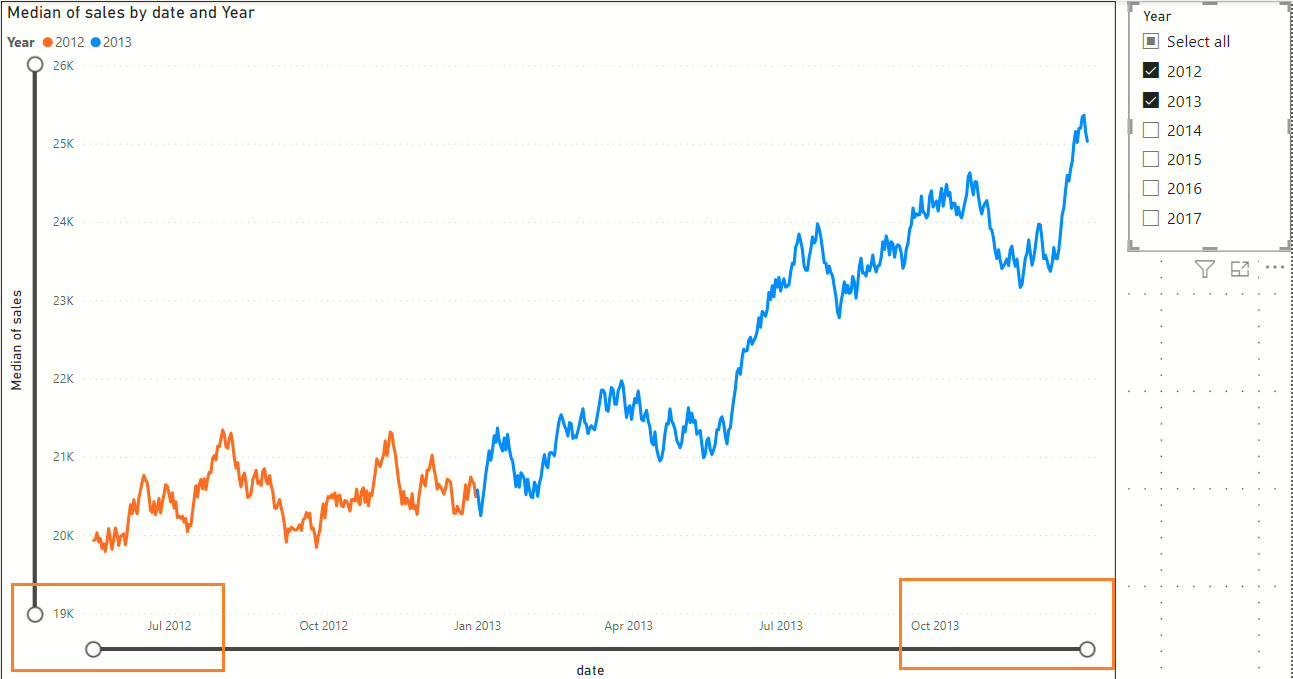
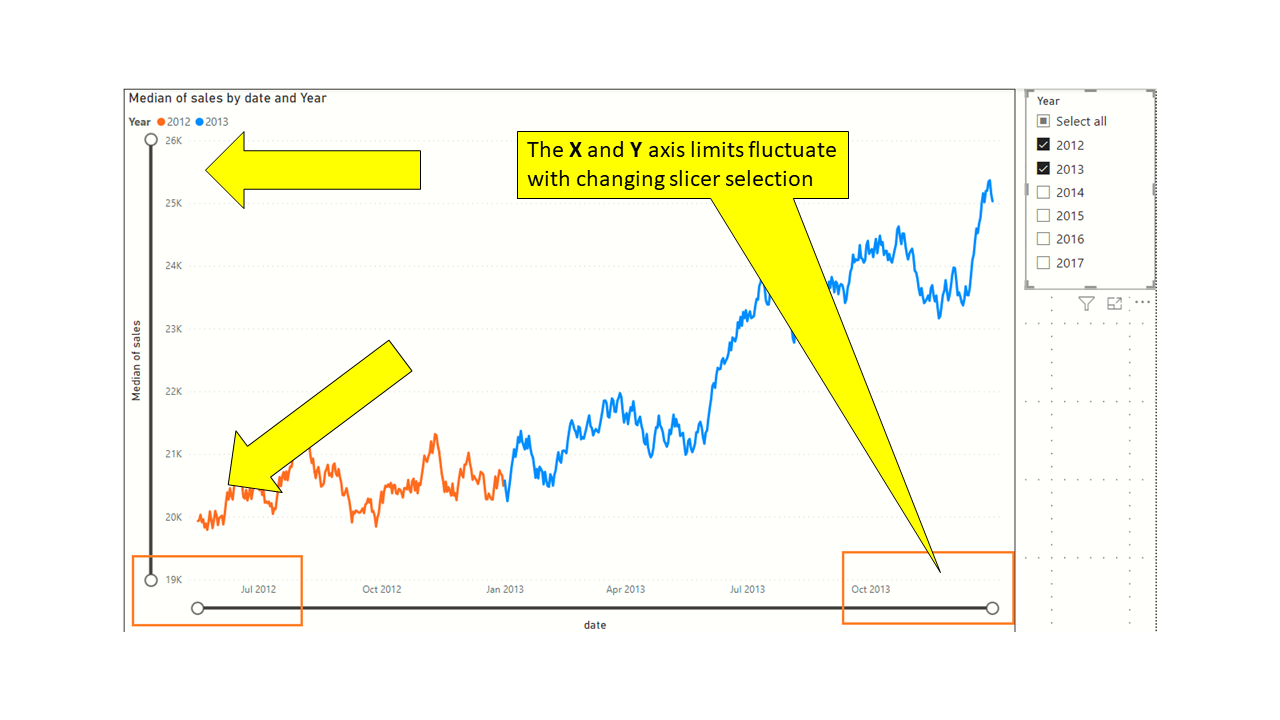
Added tooltips to X,Y axis fluctuation problem

Changed region(s): [[0.0, 0.0, 1.0, 1.0], [0.9688, 0.0, 1.0, 0.0309]]

diff --git a/powerbi-plot-multiple-years/README.MD b/powerbi-plot-multiple-years/README.MD
@@ -134,7 +134,6 @@ The user of the report may not want to handle all 5 years at once. A legend is g
 Consider the Slicer selection in the picture below. We have have selected the years 2012 and 2013. Pay attention to the lower and upper limits of the X axis. (lower=July 2012, upper=Oct 2013)
 ![steady1](docs/images/steady-axis-problem-1.png)
 
-# to be done Show tooltips before and after to hilight the shifting Axes
 
 In the following configuration, we have selected 2012 only. Pay attention to the lower and upper limits of the X axis once again (lower=June 2012, upper=Dec 2012)
 
@@ -186,7 +185,7 @@ We will use our calculated columns **MonthText** and **Year** to produce a very 
 
 ![simple-monthly-view](docs/images/simple-monthly-view.png)
 
-(Refer sheet **v1-Simple monthly break down-All Years** in the accompanying file **v3-monthly-view.pbix**)
+(Refer sheet **v3.1-Simple monthly break down-All Years** in the accompanying file **v3-monthly-view.pbix**)
 
 ---
 # Version 3.2 - Simple monthly view - Slicer on years
@@ -195,7 +194,7 @@ Like before, we introduce a Slicer visual to selectively the hide the Years we a
 
 ![simple-monthly-view-with-slicer](docs/images/simple-monthly-view-with-slicer.png)
 
-(Refer sheet **v2-Simple monthly break down-Slicer on Years** in the accompanying file **v3-monthly-view.pbix**)
+(Refer sheet **v3.2-Simple monthly break down-Slicer on Years** in the accompanying file **v3-monthly-view.pbix**)
 
 ---
 
